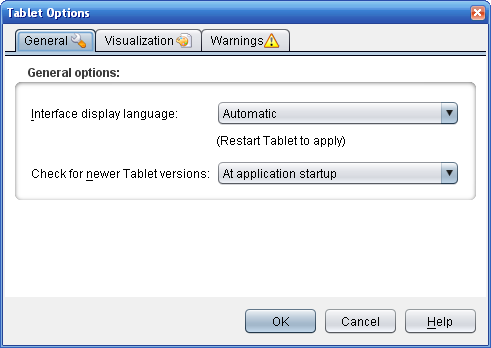
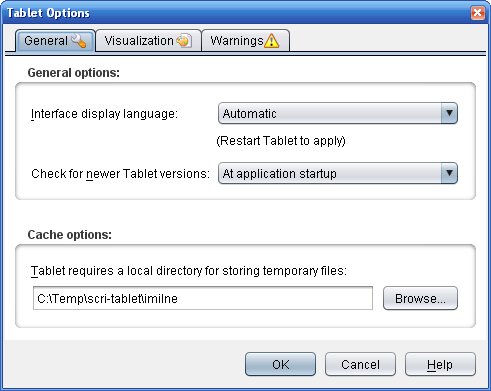
- NEW: Added a hack to improve rendering performance while the overview is still generating, as the render code and the overview code will be fighting for cache access. The render code now gets priority (the overview code pauses if its detects the main canvas rendering). - NEW: Added an option to th

diff --git a/branches/cache/src/tablet/gui/dialog/prefs/NBGeneralPanel.java b/branches/cache/src/tablet/gui/dialog/prefs/NBGeneralPanel.java
@@ -4,13 +4,15 @@
 package tablet.gui.dialog.prefs;
 
 import java.awt.*;
+import java.awt.event.*;
+import java.io.*;
 import javax.swing.*;
 
 import tablet.gui.*;
 
 import scri.commons.gui.*;
 
-class NBGeneralPanel extends JPanel
+class NBGeneralPanel extends JPanel implements ActionListener
 {
 	private DefaultComboBoxModel displayModel;
 	private DefaultComboBoxModel updateModel;
@@ -21,6 +23,7 @@ class NBGeneralPanel extends JPanel
 
         setBackground(Color.white);
         generalPanel.setBackground(Color.white);
+		cachePanel.setBackground(Color.white);
 
 		// Interface settings
 		generalPanel.setBorder(BorderFactory.createTitledBorder(RB.getString("gui.dialog.prefs.NBGeneralPanel.generalPanelTitle")));
@@ -45,6 +48,14 @@ class NBGeneralPanel extends JPanel
         updateModel.addElement(RB.getString("gui.dialog.prefs.NBGeneralPanel.updateMonthly"));
         updateCombo.setModel(updateModel);
         updateCombo.setSelectedIndex(Prefs.guiUpdateSchedule);
+
+        // Cache settings
+        cachePanel.setBorder(BorderFactory.createTitledBorder(RB.getString("gui.dialog.prefs.NBGeneralPanel.cachePanelTitle")));
+        RB.setText(cacheLabel, "gui.dialog.prefs.NBGeneralPanel.cacheLabel");
+        RB.setText(bBrowse, "gui.text.browse");
+
+        cacheField.setText(Prefs.cacheDir);
+        bBrowse.addActionListener(this);
 	}
 
     private int getLocaleIndex()
@@ -67,6 +78,18 @@ class NBGeneralPanel extends JPanel
 		}
 
 		Prefs.guiUpdateSchedule = updateCombo.getSelectedIndex();
+		Prefs.cacheDir = cacheField.getText();
+	}
+
+	public void actionPerformed(ActionEvent e)
+	{
+		JFileChooser fc = new JFileChooser();
+		fc.setDialogTitle("");
+		fc.setSelectedFile(new File(cacheField.getText()));
+		fc.setFileSelectionMode(JFileChooser.DIRECTORIES_ONLY);
+
+		if (fc.showOpenDialog(Tablet.winMain) == JFileChooser.APPROVE_OPTION)
+			cacheField.setText(fc.getSelectedFile().getPath());
 	}
 
     /** This method is called from within the constructor to
@@ -83,6 +106,10 @@ class NBGeneralPanel extends JPanel
         displayLabel = new javax.swing.JLabel();
         updateLabel = new javax.swing.JLabel();
         displayHint = new javax.swing.JLabel();
+        cachePanel = new javax.swing.JPanel();
+        cacheLabel = new javax.swing.JLabel();
+        cacheField = new javax.swing.JTextField();
+        bBrowse = new javax.swing.JButton();
 
         generalPanel.setBorder(javax.swing.BorderFactory.createTitledBorder("General options:"));
 
@@ -126,13 +153,48 @@ class NBGeneralPanel extends JPanel
                 .addContainerGap(javax.swing.GroupLayout.DEFAULT_SIZE, Short.MAX_VALUE))
         );
 
+        cachePanel.setBorder(javax.swing.BorderFactory.createTitledBorder("Cache options:"));
+
+        cacheLabel.setLabelFor(cacheField);
+        cacheLabel.setText("Tablet requires a local directory for storing temporary files:");
+
+        bBrowse.setText("Browse...");
+
+        javax.swing.GroupLayout cachePanelLayout = new javax.swing.GroupLayout(cachePanel);
+        cachePanel.setLayout(cachePanelLayout);
+        cachePanelLayout.setHorizontalGroup(
+            cachePanelLayout.createParallelGroup(javax.swing.GroupLayout.Alignment.LEADING)
+            .addGroup(cachePanelLayout.createSequentialGroup()
+                .addContainerGap()
+                .addGroup(cachePanelLayout.createParallelGroup(javax.swing.GroupLayout.Alignment.LEADING)
+                    .addComponent(cacheLabel)
+                    .addGroup(javax.swing.GroupLayout.Alignment.TRAILING, cachePanelLayout.createSequentialGroup()
+                        .addComponent(cacheField, javax.swing.GroupLayout.DEFAULT_SIZE, 295, Short.MAX_VALUE)
+                        .addPreferredGap(javax.swing.LayoutStyle.ComponentPlacement.RELATED)
+                        .addComponent(bBrowse)))
+                .addContainerGap())
+        );
+        cachePanelLayout.setVerticalGroup(
+            cachePanelLayout.createParallelGroup(javax.swing.GroupLayout.Alignment.LEADING)
+            .addGroup(cachePanelLayout.createSequentialGroup()
+                .addContainerGap()
+                .addComponent(cacheLabel)
+                .addPreferredGap(javax.swing.LayoutStyle.ComponentPlacement.RELATED)
+                .addGroup(cachePanelLayout.createParallelGroup(javax.swing.GroupLayout.Alignment.CENTER)
+                    .addComponent(cacheField, javax.swing.GroupLayout.PREFERRED_SIZE, javax.swing.GroupLayout.DEFAULT_SIZE, javax.swing.GroupLayout.PREFERRED_SIZE)
+                    .addComponent(bBrowse))
+                .addContainerGap(javax.swing.GroupLayout.DEFAULT_SIZE, Short.MAX_VALUE))
+        );
+
         javax.swing.GroupLayout layout = new javax.swing.GroupLayout(this);
         this.setLayout(layout);
         layout.setHorizontalGroup(
             layout.createParallelGroup(javax.swing.GroupLayout.Alignment.LEADING)
             .addGroup(javax.swing.GroupLayout.Alignment.TRAILING, layout.createSequentialGroup()
                 .addContainerGap()
-                .addComponent(generalPanel, javax.swing.GroupLayout.PREFERRED_SIZE, javax.swing.GroupLayout.DEFAULT_SIZE, Short.MAX_VALUE)
+                .addGroup(layout.createParallelGroup(javax.swing.GroupLayout.Alignment.TRAILING)
+                    .addComponent(cachePanel, javax.swing.GroupLayout.Alignment.LEADING, javax.swing.GroupLayout.DEFAULT_SIZE, javax.swing.GroupLayout.DEFAULT_SIZE, Short.MAX_VALUE)
+                    .addComponent(generalPanel, javax.swing.GroupLayout.Alignment.LEADING, javax.swing.GroupLayout.PREFERRED_SIZE, javax.swing.GroupLayout.DEFAULT_SIZE, Short.MAX_VALUE))
                 .addContainerGap())
         );
         layout.setVerticalGroup(
@@ -140,11 +202,17 @@ class NBGeneralPanel extends JPanel
             .addGroup(layout.createSequentialGroup()
                 .addContainerGap()
                 .addComponent(generalPanel, javax.swing.GroupLayout.PREFERRED_SIZE, javax.swing.GroupLayout.DEFAULT_SIZE, javax.swing.GroupLayout.PREFERRED_SIZE)
-                .addContainerGap(89, Short.MAX_VALUE))
+                .addGap(18, 18, 18)
+                .addComponent(cachePanel, javax.swing.GroupLayout.DEFAULT_SIZE, javax.swing.GroupLayout.DEFAULT_SIZE, Short.MAX_VALUE)
+                .addContainerGap())
         );
     }// </editor-fold>//GEN-END:initComponents
 
     // Variables declaration - do not modify//GEN-BEGIN:variables
+    private javax.swing.JButton bBrowse;
+    private javax.swing.JTextField cacheField;
+    private javax.swing.JLabel cacheLabel;
+    private javax.swing.JPanel cachePanel;
     private javax.swing.JComboBox displayCombo;
     private javax.swing.JLabel displayHint;
     private javax.swing.JLabel displayLabel;

diff --git a/branches/cache/src/tablet/io/AfgFileReader.java b/branches/cache/src/tablet/io/AfgFileReader.java
@@ -38,10 +38,11 @@ class AfgFileReader extends TrackableReader
 	//the standard gap character for this file format
 	private final String gapChar = "-";
 
-	//this temporary disk cache holds the names of the  reads while we read them in, to conserve memory
+	//this temporary disk cache holds the names of the reads while we read them in, to conserve memory
 	//private AfgNameCache cache = null;
 
-	IReadCache tempCache;
+	private IReadCache tempCache;
+	private File cacheDir;
 
 	private File cacheFile;
 	private File indexFile;
@@ -54,9 +55,10 @@ class AfgFileReader extends TrackableReader
 	{
 	}
 
-	AfgFileReader(IReadCache readCache)
+	AfgFileReader(IReadCache readCache, File cacheDir)
 	{
 		this.readCache = readCache;
+		this.cacheDir = cacheDir;
 	}
 
[1 lines of base64/hex data omitted]
@@ -89,7 +91,6 @@ class AfgFileReader extends TrackableReader
 
 		//open the temporary file cache for the read names
 		long time = System.currentTimeMillis();
-		File cacheDir = SystemUtils.getTempUserDirectory("scri-tablet");
 		cacheFile = new File(cacheDir, time + "-" + files[0].getName() + ".tempCache");
 		indexFile = new File(cacheDir, time + "-" + files[0].getName() + ".tempCacheIndex");
 

diff --git a/branches/cache/src/tablet/io/AssemblyFileHandler.java b/branches/cache/src/tablet/io/AssemblyFileHandler.java
@@ -30,11 +30,13 @@ public class AssemblyFileHandler extends SimpleJob
 	public static final int FASTQ = 6;
 
 	private File[] files = null;
+	private File cacheDir = null;
 	private TrackableReader reader = null;
 
-	AssemblyFileHandler(File[] files)
+	AssemblyFileHandler(File[] files, File cacheDir)
 	{
 		this.files = files;
+		this.cacheDir = cacheDir;
 	}
 
 	Assembly getAssembly()
@@ -45,7 +47,8 @@ public class AssemblyFileHandler extends SimpleJob
 	{
 		boolean fileParsed = false;
 
-		File cacheDir = SystemUtils.getTempUserDirectory("scri-tablet");
+		// Ensure the cache directory exists (and is valid)
+		cacheDir.mkdirs();
 
 		// Set up the read cache
 		String time = "" + System.currentTimeMillis();
@@ -65,7 +68,7 @@ public class AssemblyFileHandler extends SimpleJob
 		// AFG
 		if (okToRun && fileParsed == false)
 		{
-			reader = new AfgFileReader(readCache);
+			reader = new AfgFileReader(readCache, cacheDir);
 			fileParsed = readFile();
 		}
 		// Maq

diff --git a/branches/cache/src/tablet/io/ImportHandler.java b/branches/cache/src/tablet/io/ImportHandler.java
@@ -22,14 +22,17 @@ import scri.commons.gui.*;
 public class ImportHandler implements ITrackableJob
 {
 	private File[] files;
+	private File cacheDir;
 	private boolean okToRun = true;
 
 	private ITrackableJob currentJob = null;
 
 	private Assembly assembly;
 
-	public ImportHandler(String[] filenames)
+	public ImportHandler(String[] filenames, File cacheDir)
 	{
+		this.cacheDir = cacheDir;
+
 		files = new File[filenames.length];
 		for (int i = 0; i < files.length; i++)
 			files[i] = new File(filenames[i]);
@@ -44,7 +47,7 @@ public class ImportHandler implements ITrackableJob
 
 		// Import the assembly file
 		if (jobIndex == 0)
-			currentJob = new AssemblyFileHandler(files);
+			currentJob = new AssemblyFileHandler(files, cacheDir);
 
 		currentJob.runJob(0);
 

diff --git a/branches/cache/src/tablet/gui/viewer/ReadsCanvas.java b/branches/cache/src/tablet/gui/viewer/ReadsCanvas.java
@@ -66,6 +66,8 @@ class ReadsCanvas extends JPanel
 	private ExecutorService executor;
 	private Future[] tasks;
 
+	// Set to true if the canvas is rendered (ie, generated the back buffer)
+	boolean isRendering = false;
 
 	ReadsCanvas()
 	{
@@ -201,8 +203,12 @@ class ReadsCanvas extends JPanel
 		// Update the back buffer (if it needs redrawn)
 		if (updateBuffer)
 		{
+			isRendering = true;
+
 			try { paintBuffer(); }
 			catch (Exception e) {}
+
+			isRendering = false;
 		}
 
 		// Then paint it to the screen

diff --git a/branches/cache/src/tablet/gui/Tablet.java b/branches/cache/src/tablet/gui/Tablet.java
@@ -121,8 +121,7 @@ public class Tablet implements Thread.UncaughtExceptionHandler
 		// Attempt to remove any temp files that were in use
 		winMain.closeAssembly();
 
-		File cacheDir = SystemUtils.getTempUserDirectory("scri-tablet");
-		FileUtils.emptyDirectory(cacheDir, true);
+		FileUtils.emptyDirectory(new File(Prefs.cacheDir), true);
 
 		Prefs.isFirstRun = false;
 		prefs.savePreferences(prefsFile, Prefs.class);

diff --git a/branches/cache/src/tablet/gui/Prefs.java b/branches/cache/src/tablet/gui/Prefs.java
@@ -17,6 +17,10 @@ public class Prefs extends XMLPreferences
 	public static boolean isSCRIUser = false;
 	public static int rating = 0;
 
+	// The local working directory for disk caching
+	public static String cacheDir =
+		SystemUtils.getTempUserDirectory("scri-tablet").getPath();
+
 	// When to check for updates
 	public static int guiUpdateSchedule = Install4j.STARTUP;
 

diff --git a/branches/cache/src/tablet/gui/Commands.java b/branches/cache/src/tablet/gui/Commands.java
@@ -41,7 +41,7 @@ public class Commands
 		winMain.closeAssembly();
 		System.gc();
 
-		ImportHandler ioHandler = new ImportHandler(filenames);
+		ImportHandler ioHandler = new ImportHandler(filenames, new File(Prefs.cacheDir));
 
 		String title = RB.getString("gui.Commands.fileOpen.title");
 		String label = RB.getString("gui.Commands.fileOpen.label");

diff --git a/branches/cache/src/tablet/gui/viewer/ScaledOverviewFactory.java b/branches/cache/src/tablet/gui/viewer/ScaledOverviewFactory.java
@@ -55,6 +55,10 @@ class ScaledOverviewFactory extends OverviewBufferFactory
 
 			for (int x = 0; x < w && !killMe; x++)
 			{
+				while (rCanvas.isRendering)
+					try { Thread.sleep(5); }
+					catch (InterruptedException e) {}
+
 				// Working out where each pixel maps to in the data...
 				int dataX = (int) (x * xScale) - rCanvas.offset;
 
